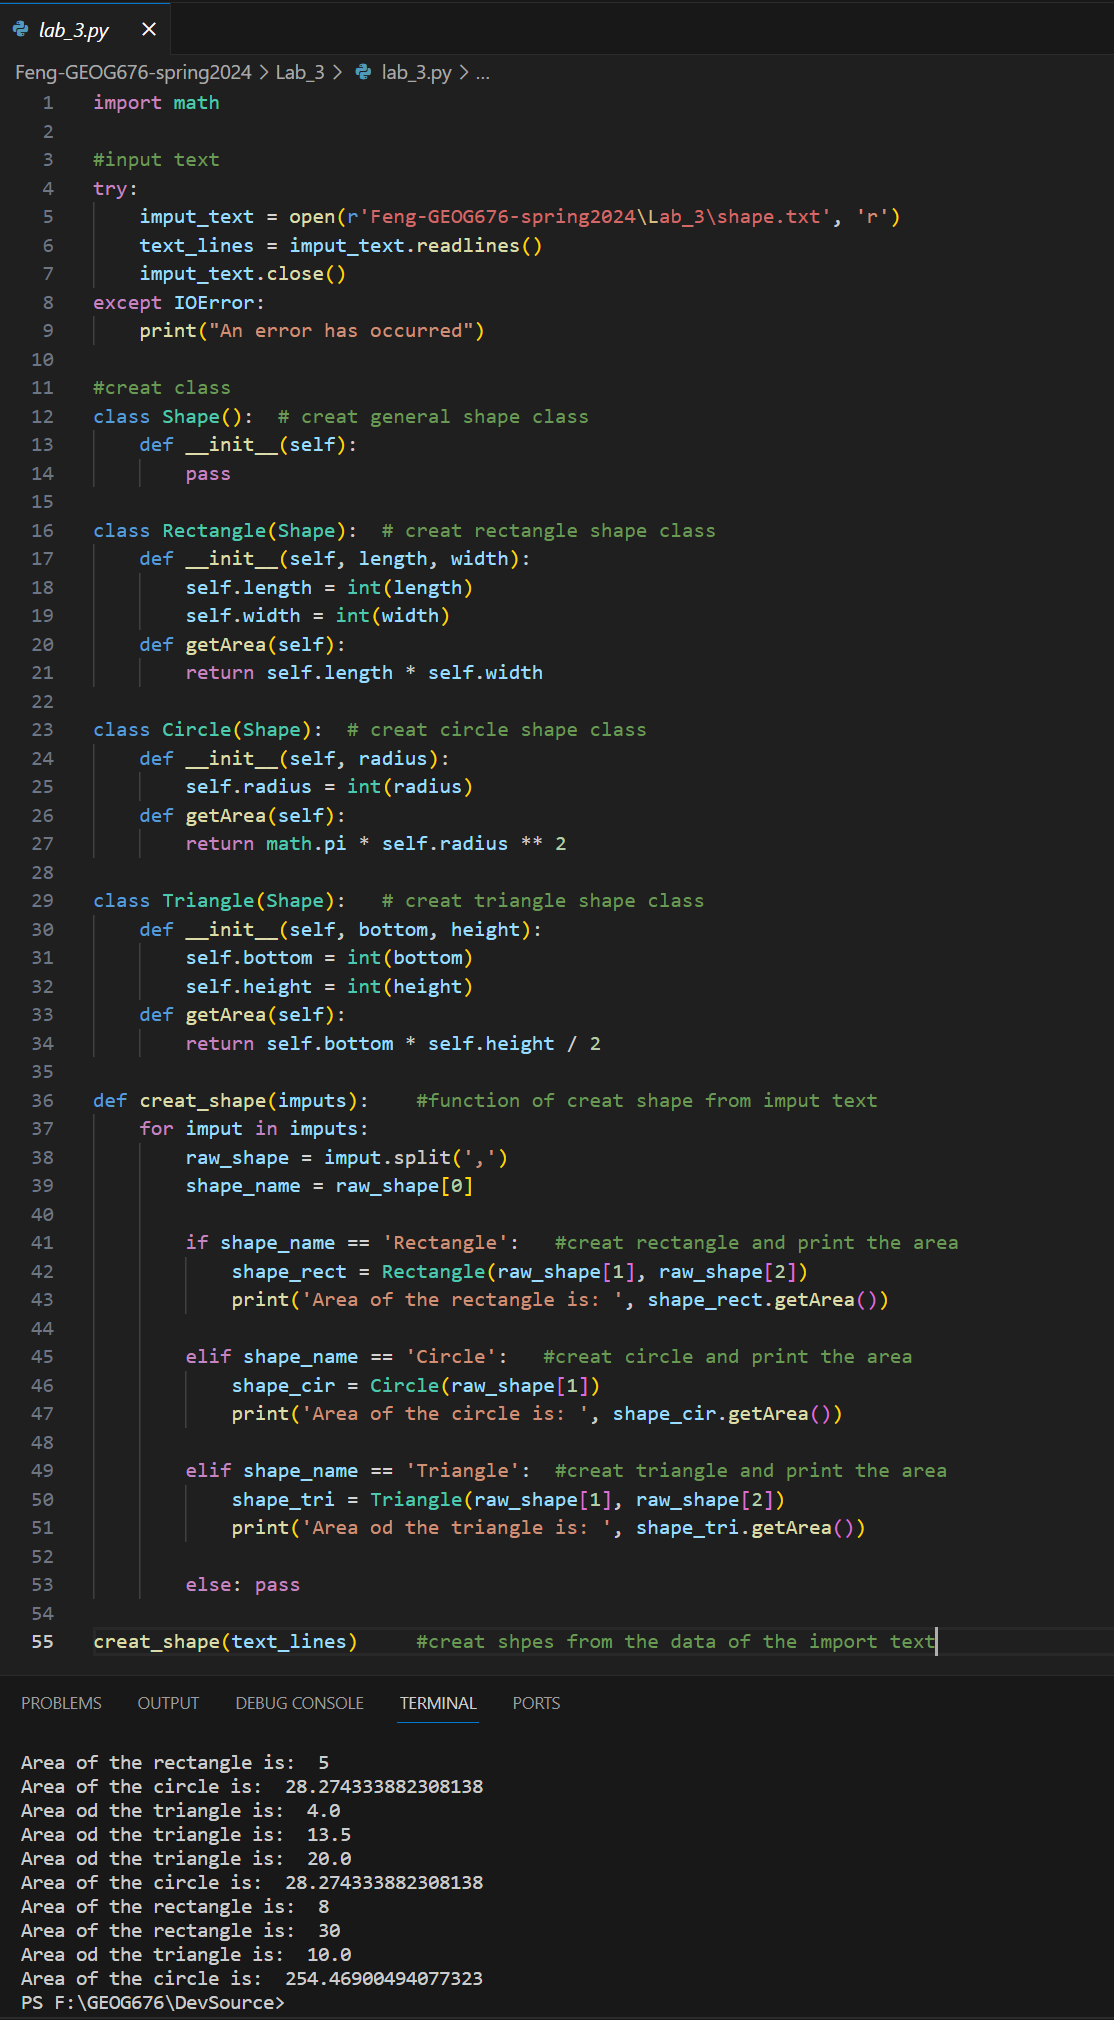
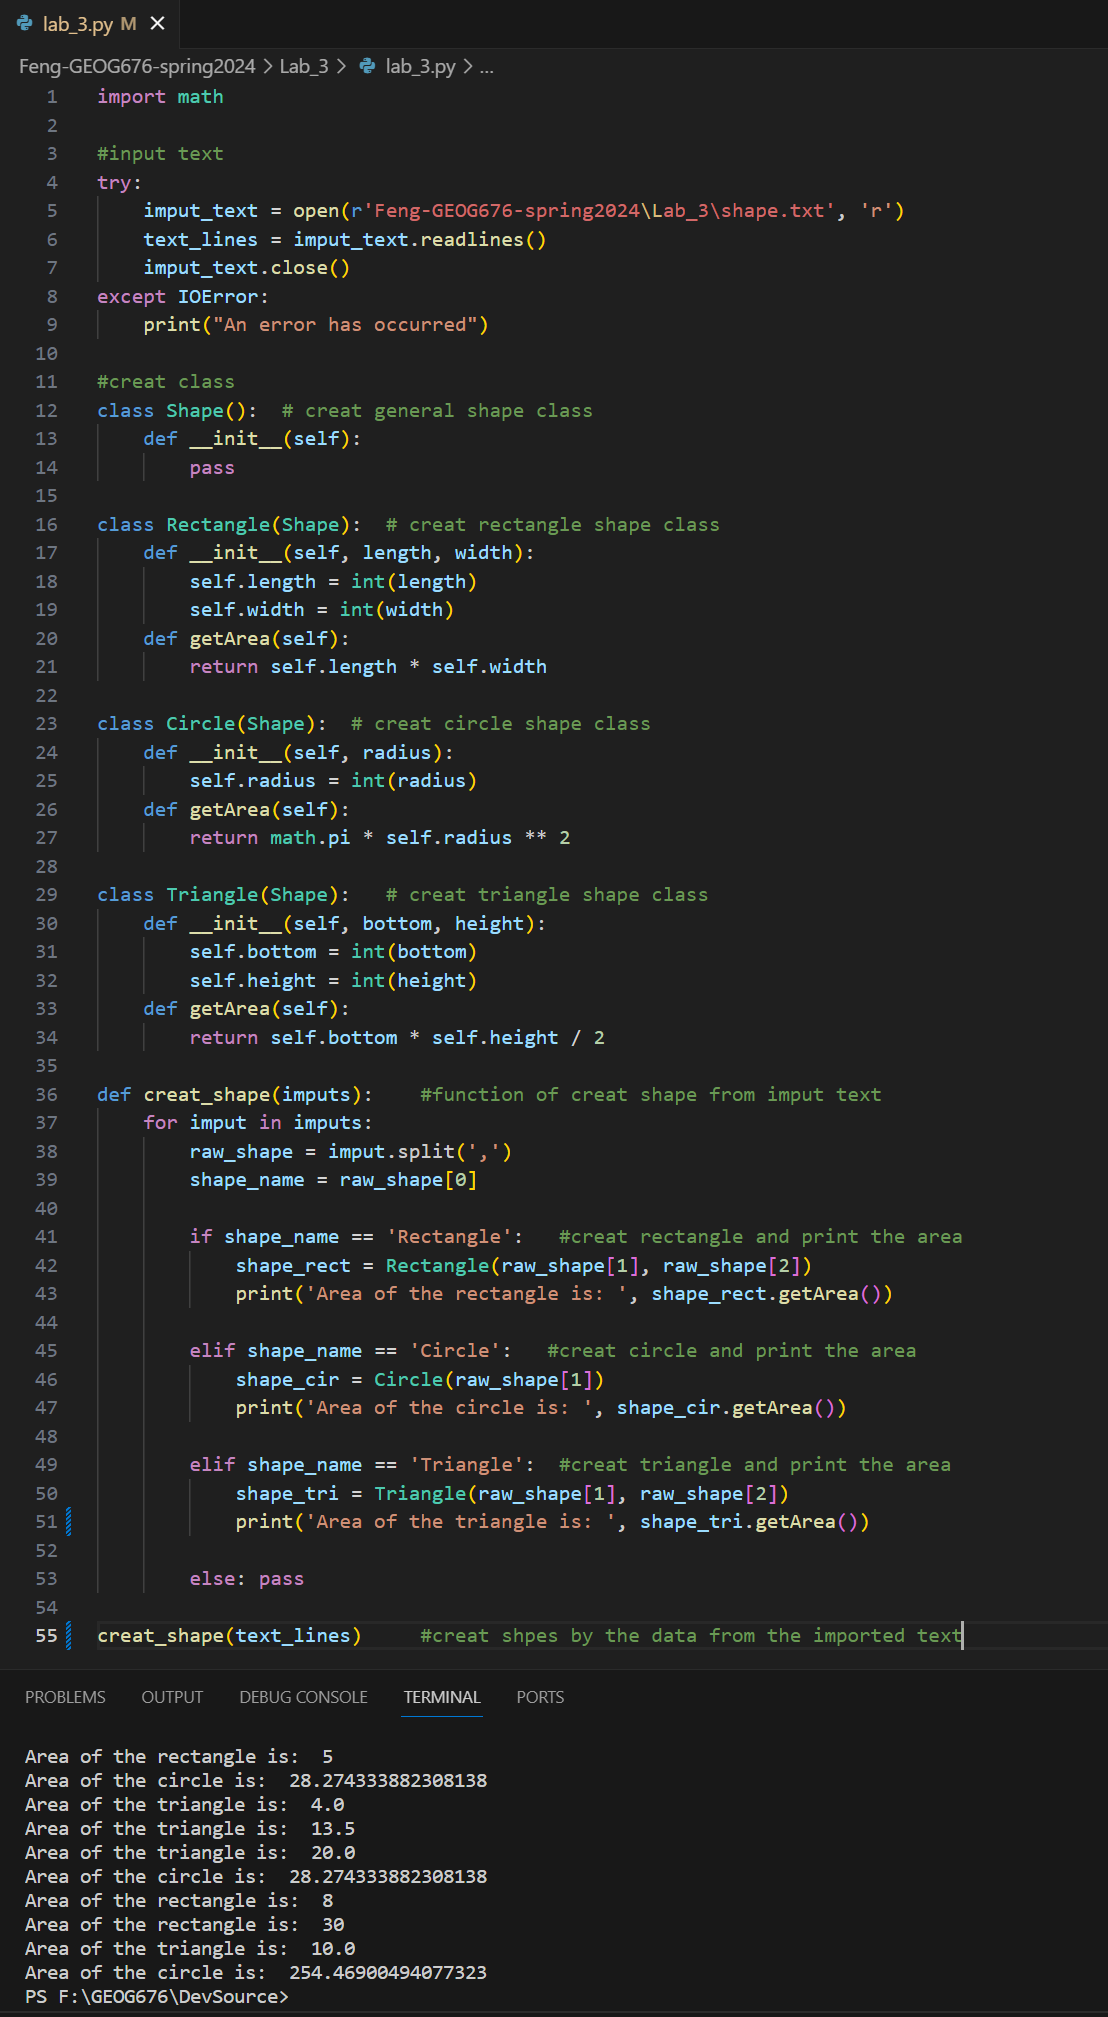
Lab_3

diff --git a/Lab_3/lab_3.py b/Lab_3/lab_3.py
@@ -48,8 +48,8 @@ def creat_shape(imputs):    #function of creat shape from imput text
 
         elif shape_name == 'Triangle':  #creat triangle and print the area
             shape_tri = Triangle(raw_shape[1], raw_shape[2])
-            print('Area od the triangle is: ', shape_tri.getArea())
+            print('Area of the triangle is: ', shape_tri.getArea())
         
         else: pass
 
-creat_shape(text_lines)     #creat shpes from the data of the import text
+creat_shape(text_lines)     #creat shpes by the data from the imported text
